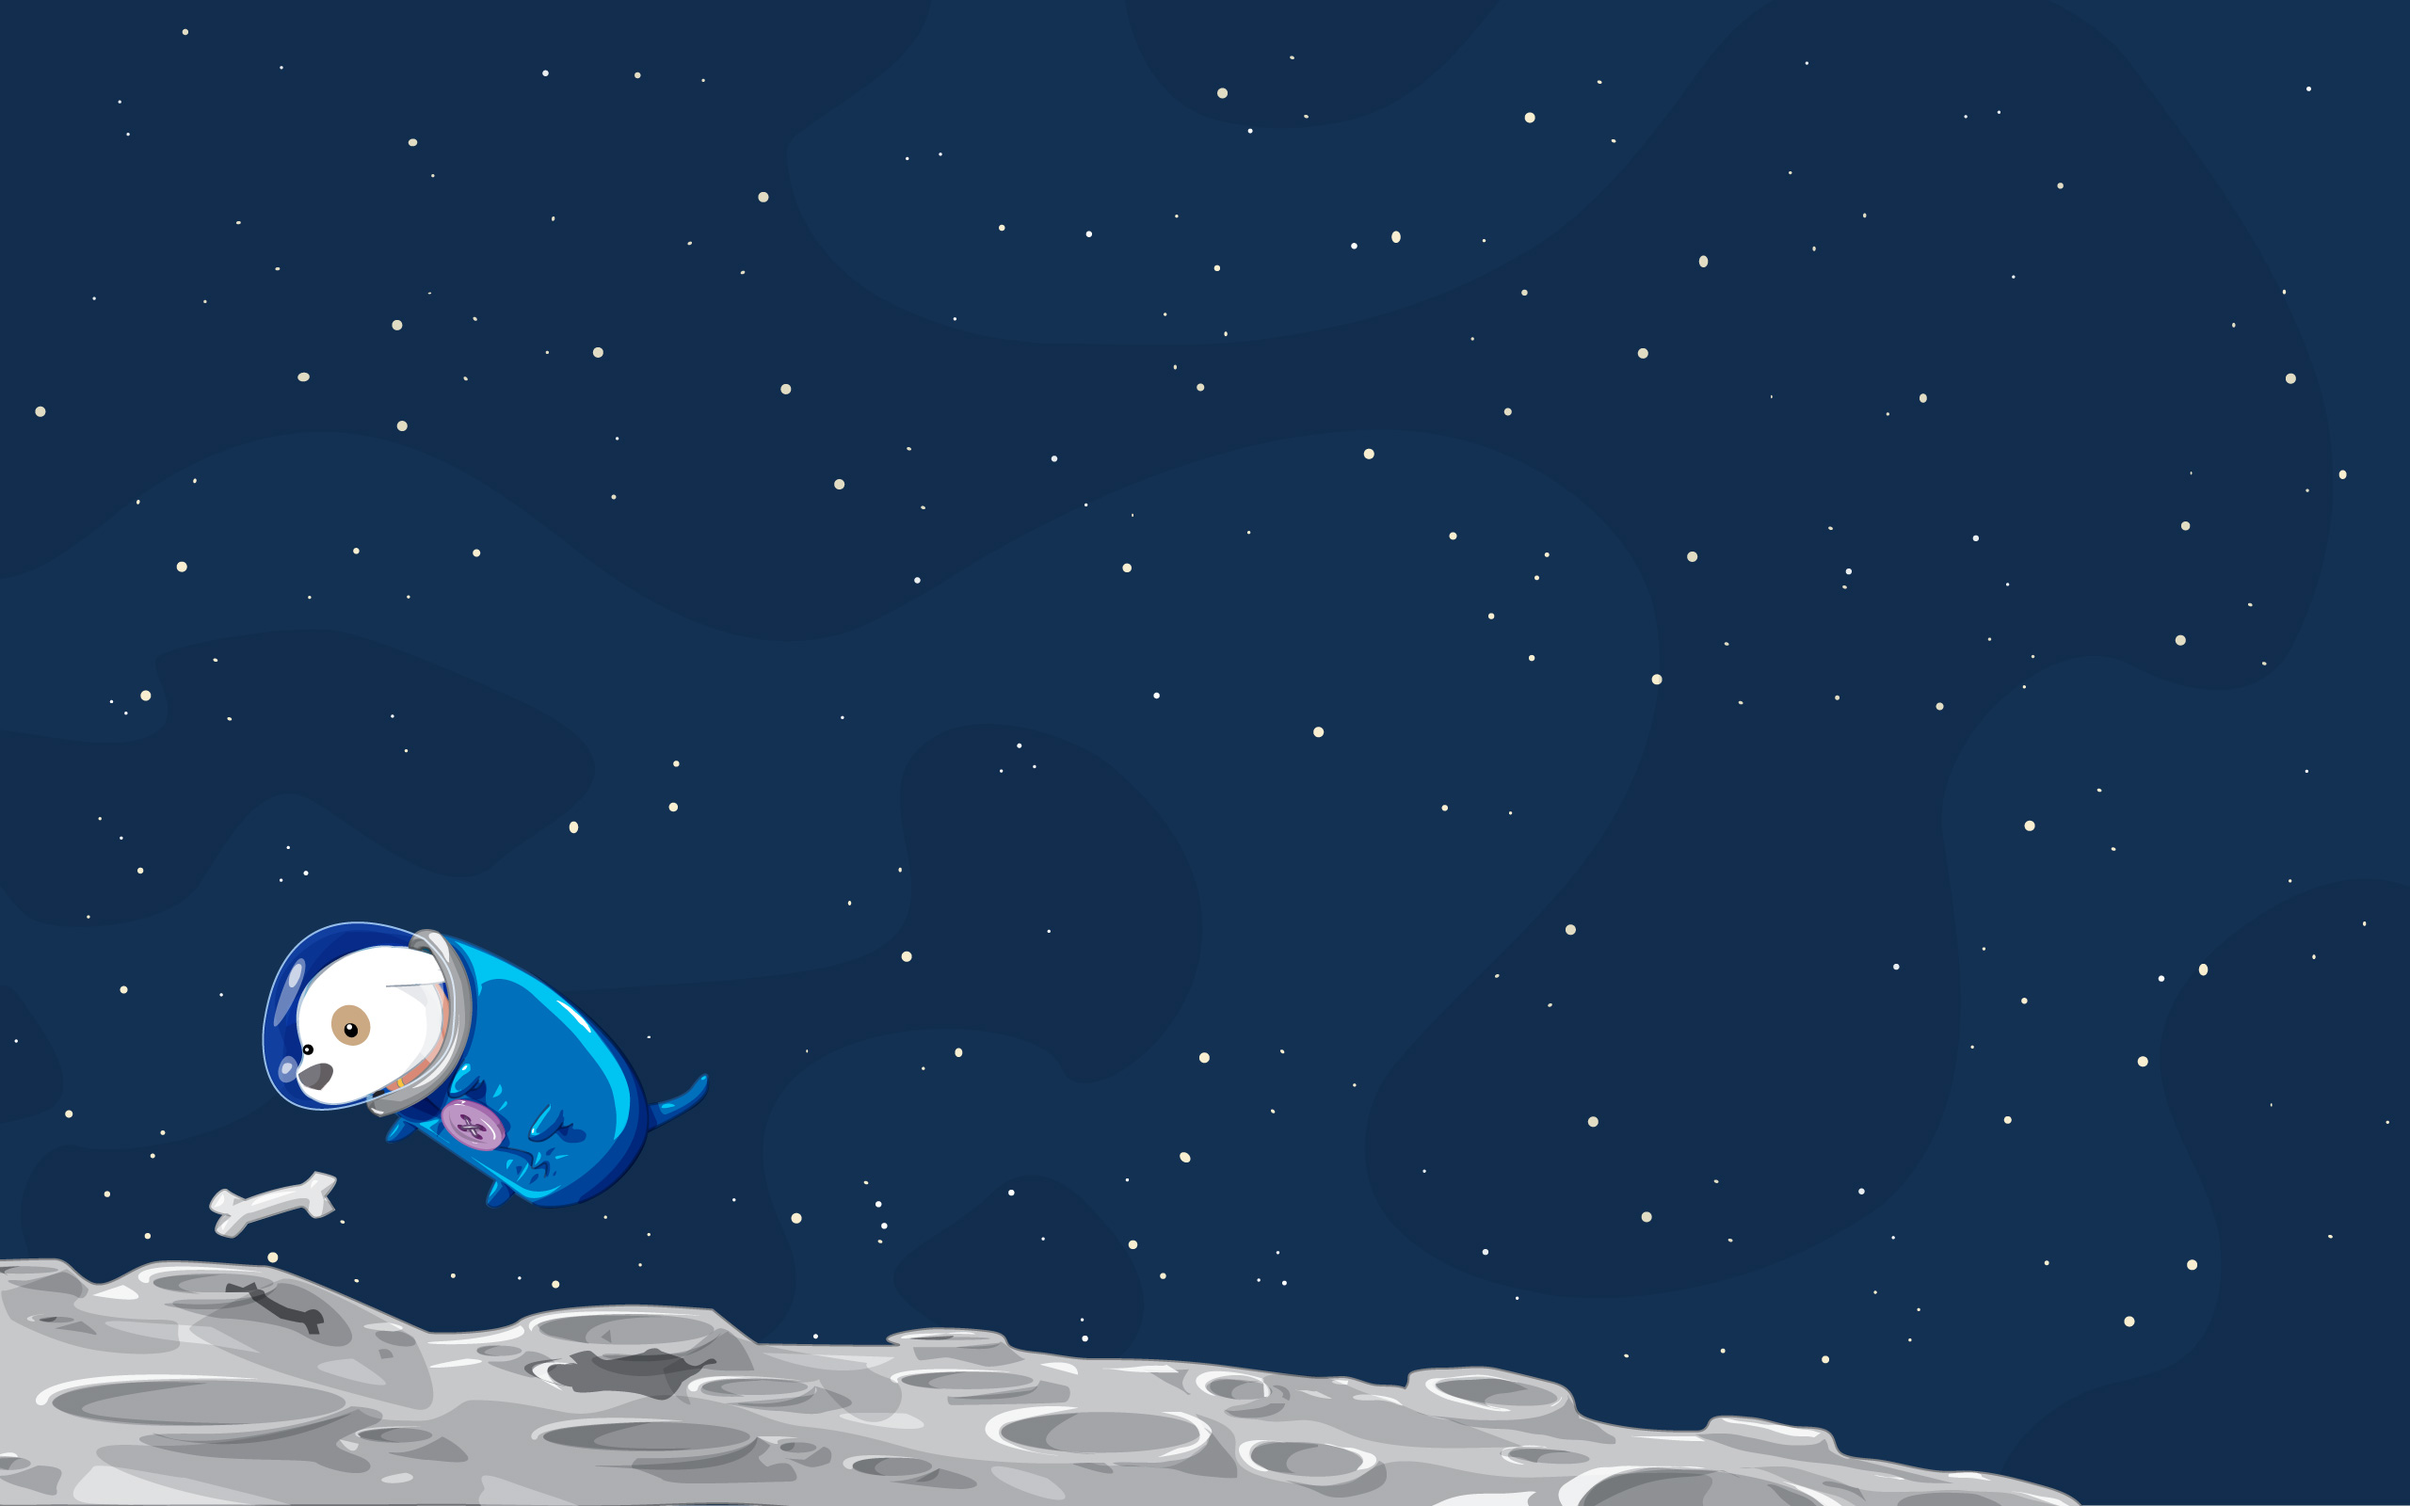
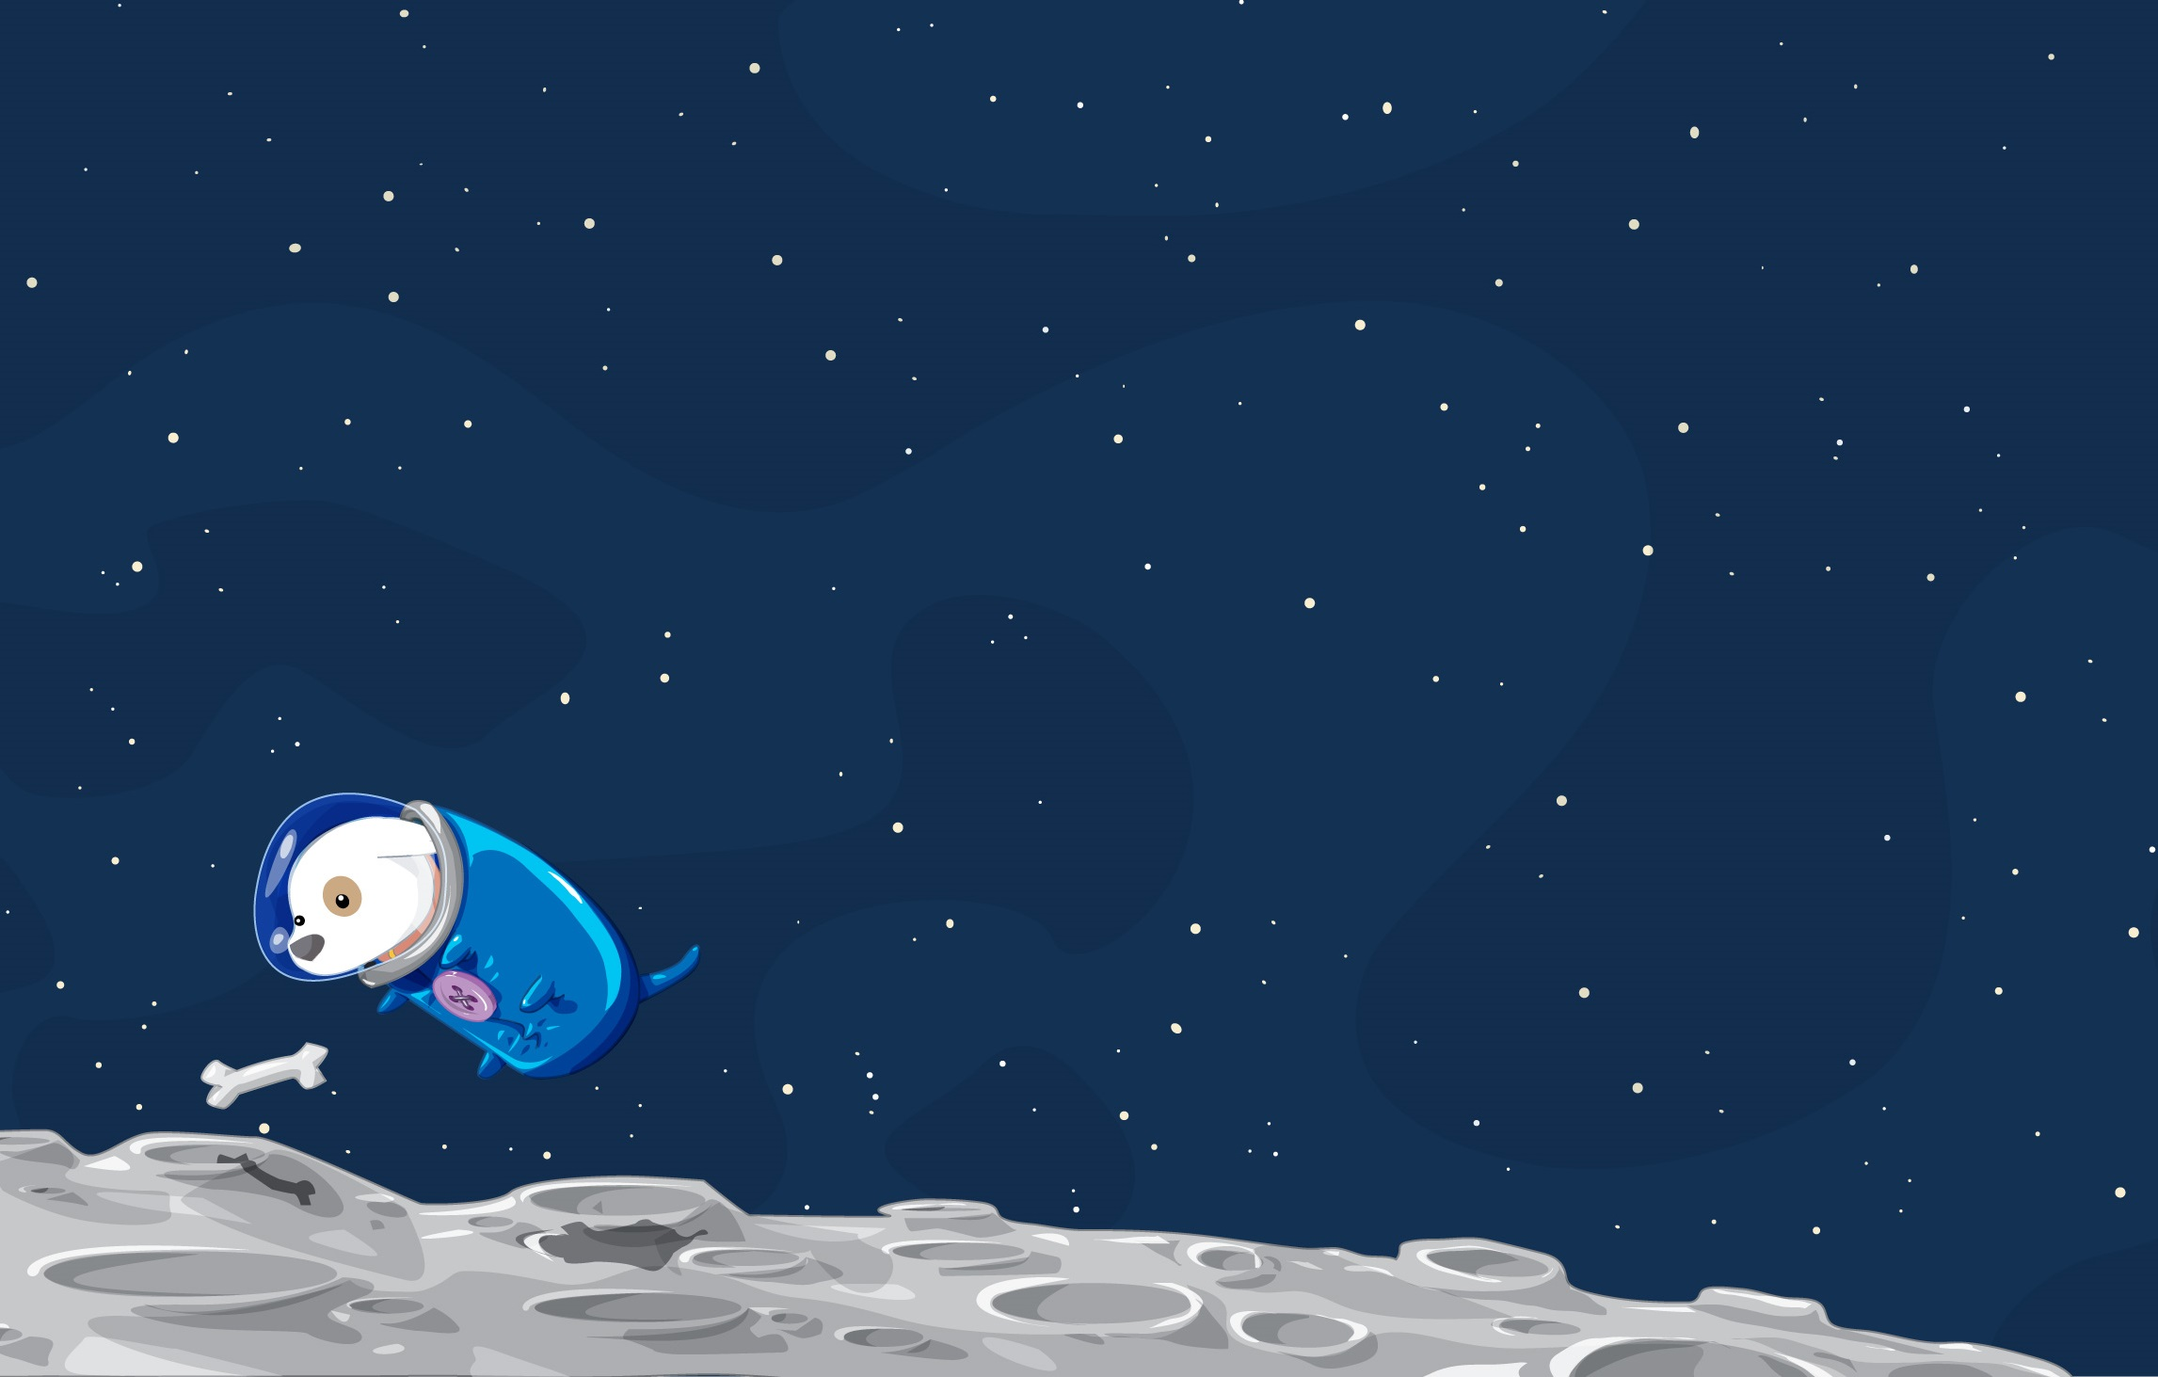
map fills up the entire body!

Changed region(s): [[0.0, 0.5537, 0.9599, 1.0]]

diff --git a/javascript/map.js b/javascript/map.js
@@ -25,7 +25,7 @@ $(document).ready(function() {
   } else {
   	currentMap = map.name;
   }
-  currentAct = 0;       // default
+  currentAct = 2;       // default
   populateData();
   
   // document.getElementById('instructionContent').innerHTML = "Welcome to the " + currentMap + " map! Click anywhere on the map to start this challenge.";
@@ -33,12 +33,19 @@ $(document).ready(function() {
 
   console.log('../images/'+scenesToImages[currentMap][currentAct]);
   var imageFile = scenesToImages[currentMap][currentAct];
-  document.getElementById("map-image").innerHTML="<img src='../images/map/"+currentMap.toLowerCase()+"/"+imageFile+"' alt='' height='800' width='1336'>";
+  document.getElementById("map-image").innerHTML="<img src='../images/map/"+currentMap.toLowerCase()+"/"+imageFile+"' alt='' height='800' width='1400'>";
+  
+  // to make image fill the entire body of the website
   $(".content").css("margin-top",0);
+  $(".content").css("padding-left",0);
+  $(".content").css("padding-right",0);
+  $(".klt-navbar").css("margin-bottom",0);
+
+  // sketchpad
   var sp = new SketchPad("canvas-test");
   sp.init(0);
 
-  console.log(challengesToQuestions.act1[0].title);
+  // console.log(challengesToQuestions.act1[0].title);
 });
 
 

diff --git a/html/map.html b/html/map.html
@@ -103,14 +103,14 @@
 
         </div>
         
-        <div class="klt-footer">
+<!--         <div class="klt-footer">
             <div class="container">
                 <div class="row">
                     <div class="col-md-11" id="chat-boxes"></div>
                     <div class="col-md-1" id="chat-search"></div>
                 </div>
             </div>
-        </div> 
+        </div> --> 
 
         <!-- Instructions Modal html -->
         <div id="instructionModal" class="modal fade">

diff --git a/stylesheets/map.css b/stylesheets/map.css
@@ -4,6 +4,7 @@ body, html {
 
 .klt-navbar {
     font-size: 24px;
+    
 }
 
 .home_body {
@@ -14,9 +15,10 @@ body, html {
     font-weight: bold;
 }
 
-.container-fluid  {
-    margin-top: 0px;
+.navbar {
+    margin-bottom:0px;
 }
+
 
 .top-buffer { margin-top:5px; }
 
